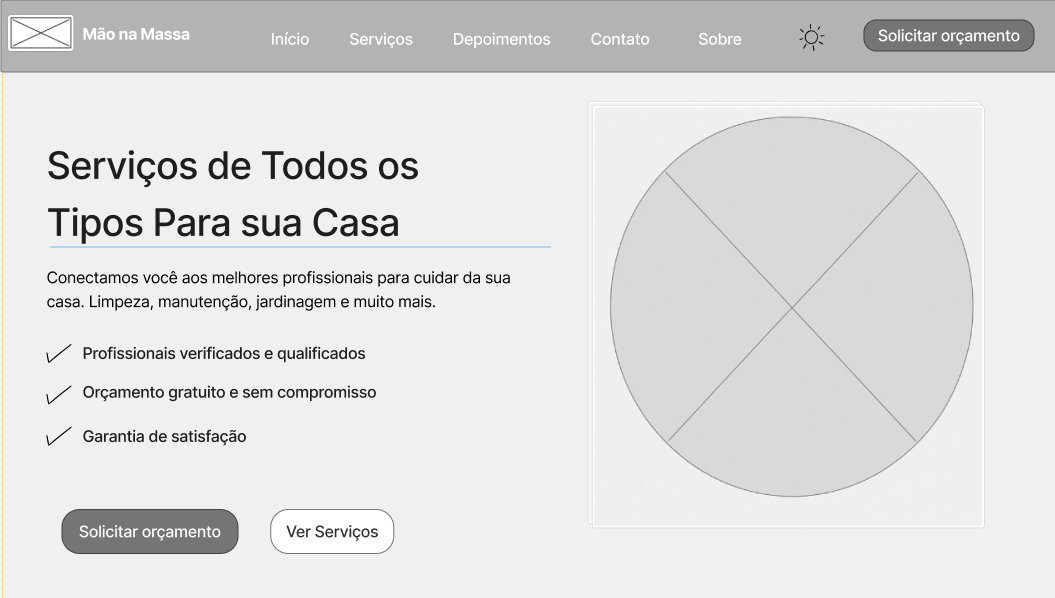
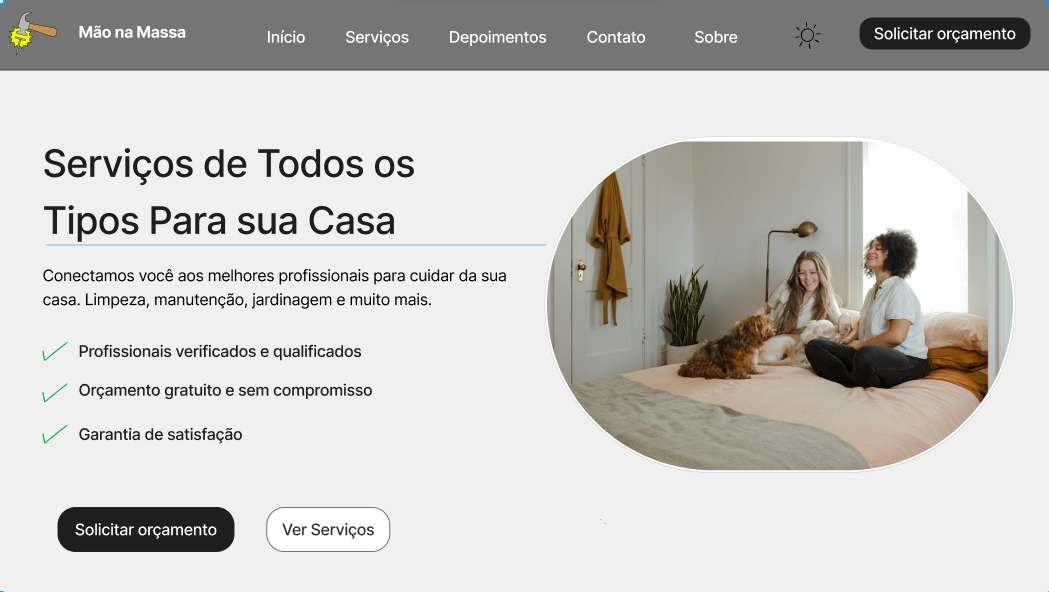
prototipo telas

diff --git a/docs/4-Projeto-Solucao.md b/docs/4-Projeto-Solucao.md
@@ -17,20 +17,14 @@
 
 ### 4.2. Protótipos de telas
 
-O protótipo foi elaborado para garantir a jornada completa do usuário, tanto cliente quanto prestador. Ele cobre desde a descoberta de serviços (landing page e catálogo) até a contratação (orçamento) e o pós-serviço (avaliações e depoimentos). O design pensado em fluxos claros, chamadas para ação e simplicidade de navegação atende os requisitos funcionais, não funcionais e histórias de usuário descritos na especificação do projeto.
+O protótipo desenvolvido apresenta a visão geral da plataforma Mão na Massa, que conecta clientes a profissionais especializados em serviços domésticos. O design das telas foi elaborado para ser simples, direto e responsivo, garantindo facilidade de uso, navegabilidade intuitiva e experiência agradável ao usuário.
+
+As telas contemplam tanto os clientes quanto os contribuidores (prestadores de serviços), atendendo às histórias de usuário levantadas na especificação do projeto. A organização segue requisitos funcionais (cadastro, login, solicitação de orçamento, exibição de serviços e avaliações) e requisitos não funcionais (usabilidade, clareza visual, acessibilidade, responsividade e segurança na autenticação).
+
+Cada interface foi pensada para guiar o usuário em um fluxo claro: conhecer os serviços → avaliar credibilidade → solicitar orçamento ou se cadastrar → acompanhar status e feedback.
+
+Tela Inicial
 ![Exemplo de Wireframe](images/inicial.png)
-
-São protótipos usados em design de interface para sugerir a estrutura de um site web e seu relacionamentos entre suas páginas. Um wireframe web é uma ilustração semelhante do layout de elementos fundamentais na interface.
- 
-> **Links Úteis**:
-> - [Protótipos vs Wireframes](https://www.nngroup.com/videos/prototypes-vs-wireframes-ux-projects/)
-> - [Ferramentas de Wireframes](https://rockcontent.com/blog/wireframes/)
-> - [MarvelApp](https://marvelapp.com/developers/documentation/tutorials/)
-> - [Figma](https://www.figma.com/)
-> - [Adobe XD](https://www.adobe.com/br/products/xd.html#scroll)
-> - [Axure](https://www.axure.com/edu) (Licença Educacional)
-> - [InvisionApp](https://www.invisionapp.com/) (Licença Educacional)
-
 
 ## Diagrama de Classes
 
